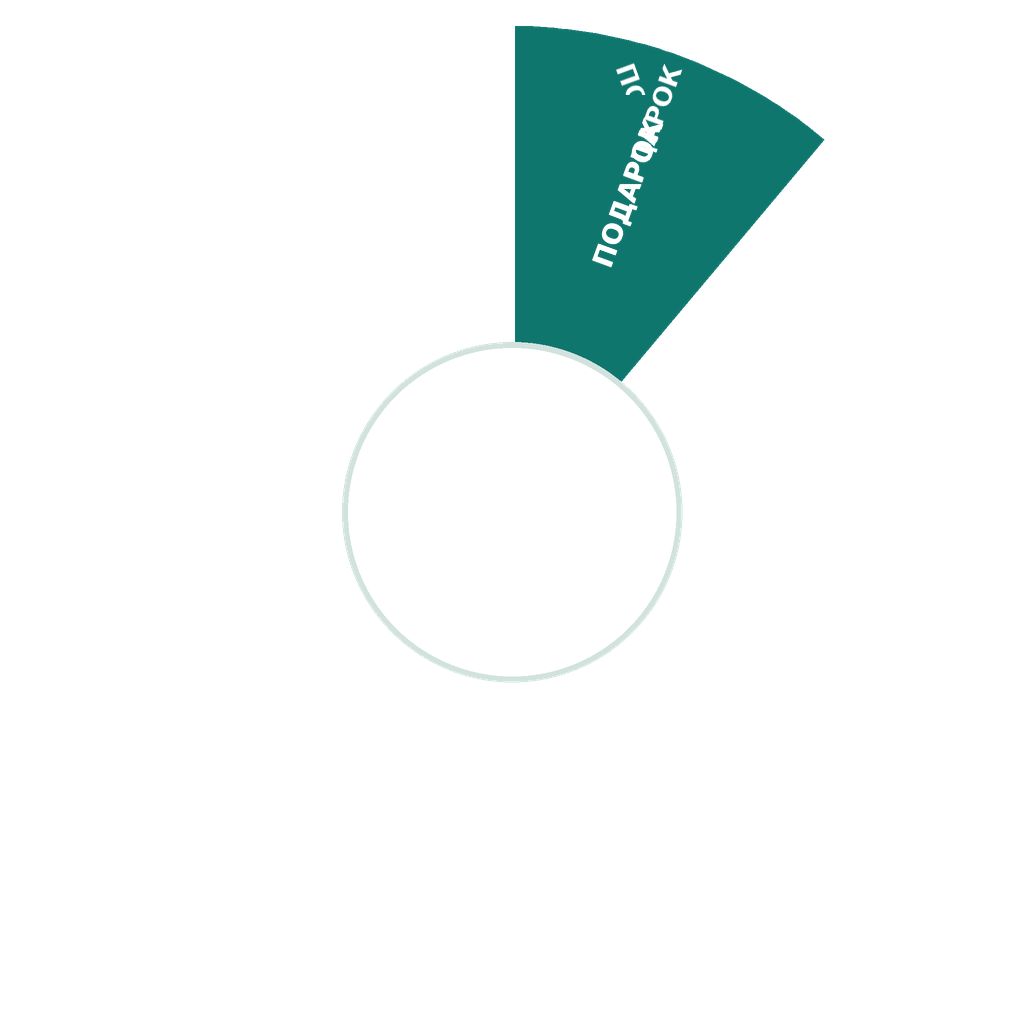
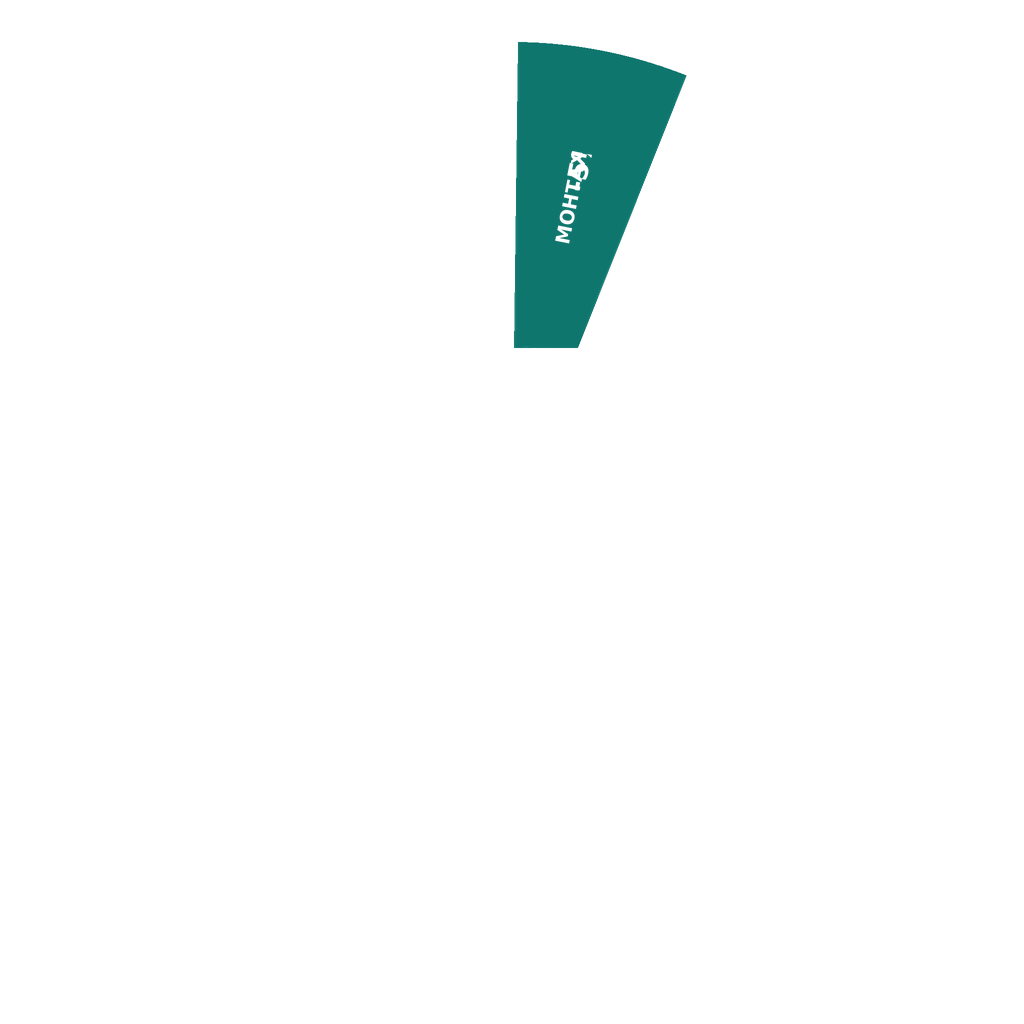
Рулетка: новое колесо 16 ячеек (Монтаж/Септик -5/-10/-15%, ТО септика, доставка — по 2 шт), маскот на месте

diff --git a/index.html b/index.html
@@ -1176,14 +1176,21 @@
       <div class="wheel-pointer"></div>
       <div class="wheel" id="wheel">
         <img class="wheel__slice" src="seg0.png" alt="" style="transform: rotate(0deg)">
-        <img class="wheel__slice" src="seg1.png" alt="" style="transform: rotate(40deg)">
-        <img class="wheel__slice" src="seg2.png" alt="" style="transform: rotate(80deg)">
-        <img class="wheel__slice" src="seg3.png" alt="" style="transform: rotate(120deg)">
-        <img class="wheel__slice" src="seg4.png" alt="" style="transform: rotate(160deg)">
-        <img class="wheel__slice" src="seg5.png" alt="" style="transform: rotate(200deg)">
-        <img class="wheel__slice" src="seg6.png" alt="" style="transform: rotate(240deg)">
-        <img class="wheel__slice" src="seg7.png" alt="" style="transform: rotate(280deg)">
-        <img class="wheel__slice" src="seg8.png" alt="" style="transform: rotate(320deg)">
+        <img class="wheel__slice" src="seg1.png" alt="" style="transform: rotate(22.5deg)">
+        <img class="wheel__slice" src="seg2.png" alt="" style="transform: rotate(45deg)">
+        <img class="wheel__slice" src="seg3.png" alt="" style="transform: rotate(67.5deg)">
+        <img class="wheel__slice" src="seg4.png" alt="" style="transform: rotate(90deg)">
+        <img class="wheel__slice" src="seg5.png" alt="" style="transform: rotate(112.5deg)">
+        <img class="wheel__slice" src="seg6.png" alt="" style="transform: rotate(135deg)">
+        <img class="wheel__slice" src="seg7.png" alt="" style="transform: rotate(157.5deg)">
+        <img class="wheel__slice" src="seg8.png" alt="" style="transform: rotate(180deg)">
+        <img class="wheel__slice" src="seg9.png" alt="" style="transform: rotate(202.5deg)">
+        <img class="wheel__slice" src="seg10.png" alt="" style="transform: rotate(225deg)">
+        <img class="wheel__slice" src="seg11.png" alt="" style="transform: rotate(247.5deg)">
+        <img class="wheel__slice" src="seg12.png" alt="" style="transform: rotate(270deg)">
+        <img class="wheel__slice" src="seg13.png" alt="" style="transform: rotate(292.5deg)">
+        <img class="wheel__slice" src="seg14.png" alt="" style="transform: rotate(315deg)">
+        <img class="wheel__slice" src="seg15.png" alt="" style="transform: rotate(337.5deg)">
       </div>
       <div class="wheel-mascot" aria-hidden="true">
         <img src="mascot.png?v=2" alt="">
@@ -1193,15 +1200,14 @@
     <div class="wheel-prizes">
       <div class="wheel-prizes__title">Все бонусы рулетки:</div>
       <ul class="wheel-prizes__list">
-        <li>Установка в подарок</li>
-        <li>Скидка 10% на септик</li>
-        <li>Скидка 5% на септик</li>
-        <li>Скидка 15% на септик</li>
-        <li>Скидка 10% на монтаж</li>
         <li>Скидка 5% на монтаж</li>
+        <li>Скидка 10% на монтаж</li>
         <li>Скидка 15% на монтаж</li>
+        <li>Скидка 5% на септик</li>
+        <li>Скидка 10% на септик</li>
+        <li>Скидка 15% на септик</li>
+        <li>ТО септика на год в подарок</li>
         <li>Бесплатная доставка по области</li>
-        <li>Сервисное обслуживание 1 год в подарок</li>
       </ul>
     </div>
     <div class="wheel-result" id="wheel-result" hidden>

diff --git a/js/main.js b/js/main.js
@@ -347,15 +347,22 @@ document.querySelectorAll('[data-max-todo]').forEach(el => {
   const resultTitle = document.getElementById('wheel-result-title');
   const takeBtn = document.getElementById('wheel-take');
   const PRIZES = [
-    { label: 'Установка в подарок', weight: 5 },
-    { label: 'Скидка 10% на септик', weight: 15 },
-    { label: 'Скидка 5% на септик', weight: 12 },
-    { label: 'Скидка 15% на септик', weight: 8 },
-    { label: 'Скидка 10% на монтаж', weight: 15 },
-    { label: 'Скидка 5% на монтаж', weight: 12 },
-    { label: 'Скидка 15% на монтаж', weight: 8 },
-    { label: 'Бесплатная доставка по области', weight: 15 },
-    { label: 'Сервисное обслуживание 1 год в подарок', weight: 10 }
+    { label: 'Скидка 5% на монтаж', weight: 1 },
+    { label: 'Скидка 10% на монтаж', weight: 1 },
+    { label: 'Скидка 15% на монтаж', weight: 1 },
+    { label: 'Скидка 5% на септик', weight: 1 },
+    { label: 'Скидка 10% на септик', weight: 1 },
+    { label: 'Скидка 15% на септик', weight: 1 },
+    { label: 'ТО септика на год в подарок', weight: 1 },
+    { label: 'Бесплатная доставка по области', weight: 1 },
+    { label: 'Скидка 5% на монтаж', weight: 1 },
+    { label: 'Скидка 10% на монтаж', weight: 1 },
+    { label: 'Скидка 15% на монтаж', weight: 1 },
+    { label: 'Скидка 5% на септик', weight: 1 },
+    { label: 'Скидка 10% на септик', weight: 1 },
+    { label: 'Скидка 15% на септик', weight: 1 },
+    { label: 'ТО септика на год в подарок', weight: 1 },
+    { label: 'Бесплатная доставка по области', weight: 1 }
   ];
   const SEG = 360 / PRIZES.length;
   let rotation = 0;
